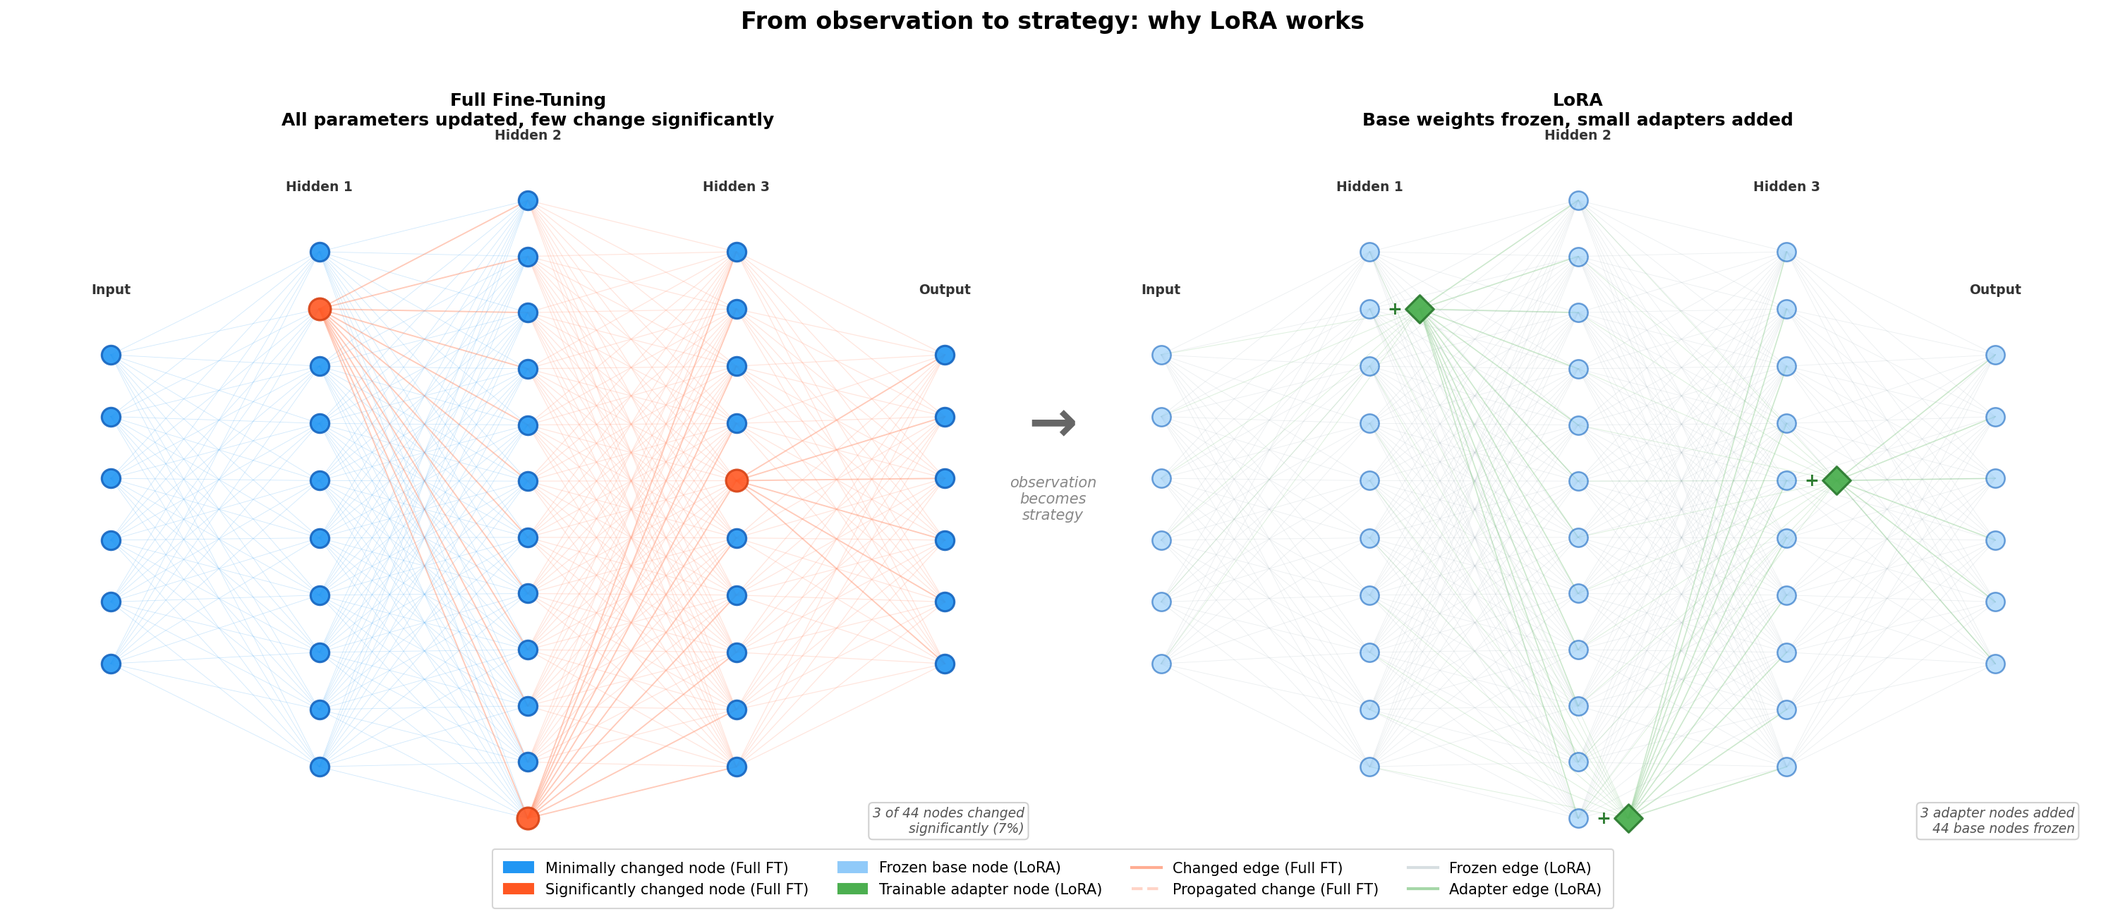
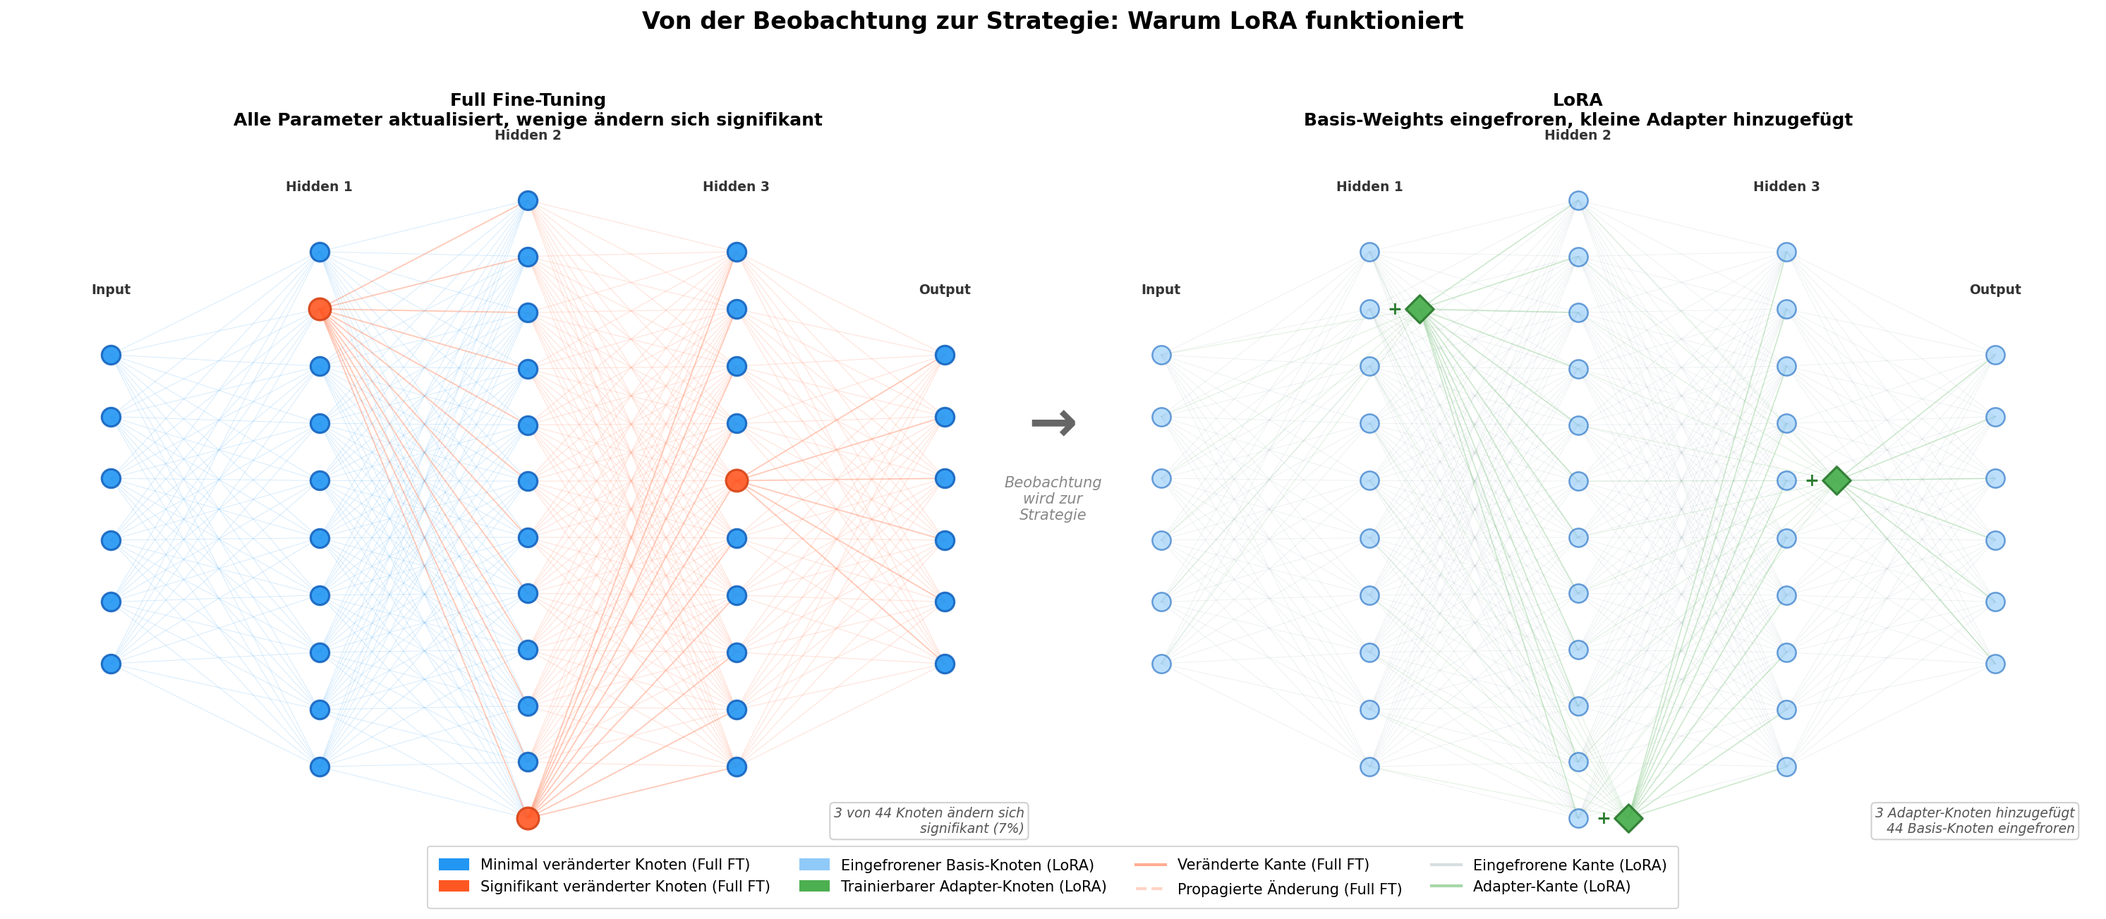
Translate and restructure LoRA documentation for improved organization and accessibility:
- Add "Hardware & Trainingsdauer" section to `LORA_EXPLAINED.md` with information on hardware setup and training metrics.
- Refactor sections for readability:
  - Rewrite and condense "Das Problem" and "Kernidee" for clarity.
  - Reorganize explanation of Full Fine-Tuning and LoRA advantages.
- Translate visualization script (`generate_finetuning_subspace.py`) into German.
  - Update text, titles, and legends for consistency in language.
- Update LoRA diagram references in `LORA_EXPLAINED.md` for better navigation.

diff --git a/machineLearning/languageModel/docs/generate_finetuning_subspace.py b/machineLearning/languageModel/docs/generate_finetuning_subspace.py
@@ -102,8 +102,8 @@ def draw_network_full_ft(ax):
     n = len(changed_nodes)
     pct = n / total * 100
     ax.text(0.98, 0.02,
-            f"{n} of {total} nodes changed\n"
-            f"significantly ({pct:.0f}%)",
+            f"{n} von {total} Knoten ändern sich\n"
+            f"signifikant ({pct:.0f}%)",
             transform=ax.transAxes, ha="right", va="bottom",
             fontsize=9, fontstyle="italic", color="#555555",
             bbox=dict(boxstyle="round,pad=0.3", facecolor="white",
@@ -111,7 +111,7 @@ def draw_network_full_ft(ax):
 
     ax.set_title(
         "Full Fine-Tuning\n"
-        "All parameters updated, few change significantly",
+        "Alle Parameter aktualisiert, wenige ändern sich signifikant",
         fontsize=12, fontweight="bold", pad=30,
     )
 
@@ -181,8 +181,8 @@ def draw_network_lora(ax):
     n_adapter = len(changed_nodes)
     total = sum(layer_sizes)
     ax.text(0.98, 0.02,
-            f"{n_adapter} adapter nodes added\n"
-            f"{total} base nodes frozen",
+            f"{n_adapter} Adapter-Knoten hinzugefügt\n"
+            f"{total} Basis-Knoten eingefroren",
             transform=ax.transAxes, ha="right", va="bottom",
             fontsize=9, fontstyle="italic", color="#555555",
             bbox=dict(boxstyle="round,pad=0.3", facecolor="white",
@@ -190,7 +190,7 @@ def draw_network_lora(ax):
 
     ax.set_title(
         "LoRA\n"
-        "Base weights frozen, small adapters added",
+        "Basis-Weights eingefroren, kleine Adapter hinzugefügt",
         fontsize=12, fontweight="bold", pad=30,
     )
 
@@ -209,34 +209,34 @@ for a in (ax1, ax2):
 fig.text(0.50, 0.52, "→", fontsize=40, ha="center", va="center",
          fontweight="bold", color="#666666",
          transform=fig.transFigure)
-fig.text(0.50, 0.46, "observation\nbecomes\nstrategy", fontsize=10,
+fig.text(0.50, 0.46, "Beobachtung\nwird zur\nStrategie", fontsize=10,
          ha="center", va="top", color="#888888", fontstyle="italic",
          transform=fig.transFigure)
 
 # Shared legend
 handles = [
     # Full FT nodes
-    mpatches.Patch(color=c_frozen, label="Minimally changed node (Full FT)"),
-    mpatches.Patch(color=c_changed, label="Significantly changed node (Full FT)"),
-    # LoRA nodes
-    mpatches.Patch(color=c_frozen_locked, label="Frozen base node (LoRA)"),
-    mpatches.Patch(color=c_lora_adapter, label="Trainable adapter node (LoRA)"),
-    # Edges
+    mpatches.Patch(color=c_frozen, label="Minimal veränderter Knoten (Full FT)"),
+    mpatches.Patch(color=c_changed, label="Signifikant veränderter Knoten (Full FT)"),
+    # LoRA-Knoten
+    mpatches.Patch(color=c_frozen_locked, label="Eingefrorener Basis-Knoten (LoRA)"),
+    mpatches.Patch(color=c_lora_adapter, label="Trainierbarer Adapter-Knoten (LoRA)"),
+    # Kanten
     Line2D([0], [0], color=c_edge_direct, linewidth=2, alpha=0.7,
-           label="Changed edge (Full FT)"),
+           label="Veränderte Kante (Full FT)"),
     Line2D([0], [0], color=c_edge_propagated, linewidth=2, alpha=0.5,
-           linestyle="--", label="Propagated change (Full FT)"),
+           linestyle="--", label="Propagierte Änderung (Full FT)"),
     Line2D([0], [0], color=c_edge_frozen, linewidth=2, alpha=0.5,
-           label="Frozen edge (LoRA)"),
+           label="Eingefrorene Kante (LoRA)"),
     Line2D([0], [0], color=c_edge_adapter, linewidth=2, alpha=0.7,
-           label="Adapter edge (LoRA)"),
+           label="Adapter-Kante (LoRA)"),
 ]
 fig.legend(handles=handles, loc="lower center", ncol=4, fontsize=10,
            frameon=True, fancybox=True, shadow=False, borderpad=0.8,
            bbox_to_anchor=(0.5, -0.06))
 
 fig.suptitle(
-    "From observation to strategy: why LoRA works",
+    "Von der Beobachtung zur Strategie: Warum LoRA funktioniert",
     fontsize=16, fontweight="bold", y=1.01,
 )
 

diff --git a/machineLearning/languageModel/docs/LORA_EXPLAINED.md b/machineLearning/languageModel/docs/LORA_EXPLAINED.md
@@ -15,8 +15,9 @@
 7. [LoRA im Vergleich zu anderen Methoden](#sec-comparison)
 8. [Praxis: LoRA Adapter speichern und laden](#sec-practice)
 9. [Unsere Implementierung: MiniGPT Fine-Tuning](#sec-implementation)
-10. [Weiterführende Konzepte](#sec-further)
-11. [References](#sec-references)
+10. [Hardware & Trainingsdauer](#sec-hardware)
+11. [Weiterführende Konzepte](#sec-further)
+12. [References](#sec-references)
 
 ---
 
@@ -24,79 +25,16 @@
 
 ## 1. Das Problem
 
-Dieses Dokument begleitet **MiniGPT**, ein kleines **autoregressive** Sprachmodell (das heißt,
-es erzeugt Text jeweils ein Token nach dem anderen, wobei jede Vorhersage von allen
-vorherigen Token abhängt), das im Rahmen dieses Projekts von Grund auf gebaut wurde
-(siehe [`training_transformer.py`](../src/training/training_transformer.py)).
-MiniGPT folgt der **Transformer**-Architektur, die von Vaswani et al. [8] eingeführt wurde —
-derselben Grundlage hinter Modellen wie ChatGPT, LLaMA und Qwen. Es besteht aus:
+Man möchte einem Sprachmodell neues Wissen beibringen — etwa Fakten aus einem bestimmten Fachgebiet oder einen bestimmten Schreibstil. Der naheliegendste Ansatz wäre ein Training von Grund auf und so lange auf den eigenen Daten trainieren, bis das Modell das Gewünschte gelernt hat. Doch das Modell muss zunächst Sprache, Grammatik und Weltwissen von Null auf lernen, was Datensätze im Bereich von Billionen Token und entsprechende Rechenressourcen voraussetzt. Vortrainierte Modelle (Pretrained Models) wie Qwen3-8B oder ChatGPT (Generative Pretrained Transformer) "kennen" bereits diese Dinge. 
 
-- Einem **Token Embedding** (einer Nachschlagetabelle, die jedes Wort oder Teilwort in einen Zahlenvektor umwandelt, den das Modell verarbeiten kann) + einer Positionscodierung (damit das Modell die *Reihenfolge* der Token in der Sequenz kennt)
-- $N$ gestapelten Transformer-Blöcken, die jeweils Multi-Head Self-Attention und ein Feed-Forward-Netzwerk enthalten
-- Einem linearen Output-Kopf, der **Logits** für das nächste Token erzeugt (Rohwerte, einer pro Vokabelwort, die in Wahrscheinlichkeiten umgerechnet werden, um das nächste Token vorherzusagen)
-
-Die Transformer-Architektur wurde gewählt, weil sie dem aktuellen Standard für Sprachmodelle entspricht und MiniGPT dadurch strukturell direkt mit Produktionsmodellen wie Qwen3-8B vergleichbar ist — Qwen3 verwendet ebenfalls eine Decoder-only Transformer-Architektur [8] (mit Grouped Query Attention, RMSNorm, SwiGLU und RoPE).
-
-MiniGPT ist bewusst klein gehalten ($d_{\text{model}} = 64$, 2 Layer, 4 Attention Heads), um
-Training und Experimente schnell auf einer einzelnen CPU zu ermöglichen. Die Architektur ist jedoch
-strukturell identisch mit produktionstauglichen Modellen — jedes in diesem Dokument besprochene
-Konzept (LoRA, Weight Freezing, Adapter Merging) ist 1:1 auf Milliarden-Parameter-Modelle wie
-Qwen3-8B übertragbar.
-
-Man möchte einem Sprachmodell neues Wissen beibringen — etwa Fakten aus einem bestimmten
-Fachgebiet oder einen bestimmten Schreibstil. Der naheliegendste Ansatz wäre ein Training von Grund auf:
-zufällige Gewichte initialisieren und so lange auf den eigenen Daten trainieren, bis das Modell das
-Gewünschte gelernt hat. Doch das ist die Holzhammer-Methode — das Modell muss zunächst Sprache,
-Grammatik und Weltwissen von Null auf lernen, wofür enorme Datensätze (Billionen von Token) und
-massive Rechenleistung erforderlich sind. Für ein Modell wie Qwen3-8B (8 Milliarden Parameter) ist
-das völlig unpraktikabel.
-
-Die Erkenntnis, die moderne Anpassung überhaupt erst möglich macht, ist, dass jemand diese
-aufwändige Arbeit *bereits erledigt hat*. Vortrainierte Modelle (Pretrained Models) wie Qwen3-8B wurden auf riesigen
-Datensätzen trainiert und "kennen" bereits die Sprache. Anstatt bei Null anzufangen, lässt sich
-von diesen vortrainierten Gewichten ausgehen und auf einem kleineren, aufgabenspezifischen Datensatz
-weitertrainieren — das nennt man **Full Fine-Tuning**. Es ist um Größenordnungen günstiger als
-Training from Scratch, aber in absoluten Zahlen immer noch teuer, wie die folgende Analyse zeigt.
-
-Unser MiniGPT (~109K Parameter) lässt sich bequem auf einer CPU trainieren. Modelle wie Qwen3-8B
-sind dafür jedoch viel zu groß — die Matrixoperationen über Milliarden von Parametern erfordern
-die massive Parallelität einer **GPU**. Um zu verstehen, warum selbst Full Fine-Tuning kostspielig
-ist, muss betrachtet werden, was die GPU im VRAM (Video-RAM, der Arbeitsspeicher der Grafikkarte) halten muss.
-
-Zunächst die **Modellgewichte** (Weights) selbst. Die meisten LLMs werden in halber Genauigkeit (FP16 oder
-BF16) gespeichert und ausgeführt — dies ist das Standardformat für die Verteilung und Inferenz
-moderner Modelle, da es den Speicherbedarf im Vergleich zu voller Genauigkeit (FP32, 4 Byte pro Parameter) halbiert, bei vernachlässigbarem
-Qualitätsverlust. Doppelte Genauigkeit (FP64, 8 Byte) wird im Deep Learning nicht eingesetzt — die Gradienten sind ohnehin verrauscht, sodass die zusätzliche Präzision keinen messbaren Vorteil bringt, den Speicherbedarf aber nochmals verdoppeln würde. In halber Genauigkeit belegt jeder Parameter 2 Byte, sodass allein das Laden von
-Qwen3-8B bereits 16 GB benötigt.
+Anstatt bei Null anzufangen, lässt sich von diesen vortrainierten Werten ausgehen und auf einem kleineren, aufgabenspezifischen Datensatz weitertrainieren — das nennt man **Full Fine-Tuning**. Es ist um Größenordnungen günstiger als Training von Grund auf, aber in absoluten Zahlen immer noch teuer. Denn doch selbst Full Fine-Tuning stößt schnell an Consumer-Hardware-Grenzen. Allein um Qwen3-8B in halber Genauigkeit (FP16, 2 Byte pro Parameter) zu *laden*, werden über 16 GB GPU-Speicher (VRAM) benötigt:
 
 $$8 \times 10^9 \;\text{Parameter} \times 2 \;\text{Byte} = 16 \;\text{GB}$$
 
-
-
-In der Praxis treiben zusätzliche Mehraufwände (GPU-Verwaltungsdaten, Zwischenergebnisse der Berechnungen, Datenpuffer) den
-tatsächlichen Verbrauch über dieses theoretische Minimum hinaus — daher **>16 GB GPU RAM** allein
-für das Modell.
-
-Das Trainieren eines Modells benötigt jedoch deutlich mehr. Während der **Backpropagation** (dem Prozess, bei dem das
-Netzwerk rückwärts vom Ausgabefehler arbeitet, um herauszufinden, wie jeder Parameter zu diesem
-Fehler beigetragen hat) berechnet das Netzwerk einen **Gradient** für jeden Parameter — eine Zahl, die angibt, *in welche Richtung* und *um wie viel* dieser Parameter angepasst werden muss, um den Fehler zu verringern.
-
-Ein Beispiel: Das Modell soll nach *"die katze sitzt auf dem"* das Wort *"tisch"* vorhersagen, gibt aber *"hund"* aus. Der Gradient für einen bestimmten Parameter könnte dann $-0{,}03$ betragen — das bedeutet: "Verringere diesen Parameter um einen kleinen Betrag, dann wird die Vorhersage etwas näher an *tisch* rücken." Ein anderer Parameter erhält vielleicht $+0{,}01$: "Erhöhe diesen leicht." So bekommt jeder der 8 Milliarden Parameter seine individuelle Korrekturanweisung.
-
-Formal ist der Gradient die partielle Ableitung $g_i = \partial \mathcal{L} / \partial \theta_i$, wobei $\mathcal{L}$ der **Loss** (Verlust) ist — eine einzelne Zahl, die misst, wie falsch die Vorhersagen des Modells sind. Der **Optimizer** (der Algorithmus, der die Parameter tatsächlich aktualisiert) nutzt diese Gradienten, um jeden Parameter Schritt für Schritt in Richtung besserer Vorhersagen zu verschieben. Da zu jedem der 8 Milliarden Parameter ein zugehöriger Gradient $g_i$ gespeichert werden muss (ebenfalls in FP16, also 2 Byte), verdoppelt sich der Speicherbedarf effektiv auf ~32 GB.
-
-Moderne Optimizer verursachen weiteren Mehraufwand. **Adam** [7], der De-facto-Standard-Optimizer für
-das Training großer Sprachmodelle, hält zwei zusätzliche laufende Mittelwerte pro Parameter vor (einen Impuls-Term,
-der verrauschte Gradienten glättet, und einen Varianz-Term, der die Schrittweite für jeden Parameter
-anpasst). Zusammen mit den Gewichten und Gradienten ergibt dies ungefähr das $3\times$-Fache der
-Modellgröße [11]:
-
-$$3 \times 16 \;\text{GB} \approx 48 \;\text{GB}.$$
-
-Zum Vergleich: Laut dem Steam Hardware Survey (Januar 2026) [12] haben 33,46% aller Nutzer eine GPU mit 8 GB VRAM — die beliebteste Grafikkarte ist die NVIDIA RTX 4060 (8 GB, 8,57% Marktanteil). Selbst 16 GB VRAM besitzen nur 14,55% der Nutzer. Die für Full Fine-Tuning von Qwen3-8B benötigten ~48 GB übersteigen also die Hardware der allermeisten Consumer-Systeme bei Weitem.
-
-LoRA löst dieses Problem [1] — nicht, indem es Full Fine-Tuning billiger macht, sondern indem es
-dieses gänzlich vermeidet.
+Laut dem Steam Hardware Survey (Januar 2026) [[12]](https://store.steampowered.com/hwsurvey/) haben nur 29,57% aller Nutzer überhaupt
+8 GB VRAM — und selbst 16 GB besitzen nur 14,55%. Das ist nur das *Betreiben* des Modells.
+Beim *Trainieren* kommen Gradienten und Optimizer-Zustände hinzu, die den Speicherbedarf
+auf rund das Vierfache der Modellgröße treiben — bei Qwen3-8B also ~64 GB.
 
 ---
 
@@ -105,23 +43,12 @@ dieses gänzlich vermeidet.
 ## 2. Die Kernidee
 
 Wenn Full Fine-Tuning so teuer ist, müssen dann wirklich *alle* Parameter aktualisiert werden? Die
-zentrale Beobachtung hinter LoRA lautet: nein — die Weight-Änderungen, die beim Fine-Tuning
+zentrale Beobachtung hinter LoRA [1] lautet: nein — die Weight-Änderungen, die beim Fine-Tuning
 auftreten, belegen nur einen kleinen Unterraum des gesamten Parameterraums (das heißt, von allen
 möglichen Arten, wie sich die Weights *ändern könnten*, konzentrieren sich die tatsächlichen
 Änderungen in einem winzigen Bereich).
 
-[Abbildung 1](#fig:subspace) veranschaulicht dies anhand eines vereinfachten Schemas
-eines neuronalen Netzes. Jeder Knoten stellt ein **Neuron** dar — eine Recheneinheit, die über
-viele einzelne Weight-Parameter (die Kanten) mit Neuronen in benachbarten Layern verbunden ist. Die
-Abbildung ist nicht maßstabsgetreu zu einem bestimmten Modell; es handelt sich um ein
-Konzeptdiagramm, das das allgemeine Prinzip zeigt. Beim Full Fine-Tuning erhalten technisch alle
-Parameter Gradient-Updates — doch das Ausmaß der Änderung ist höchst ungleichmäßig. Blaue
-Neuronen ändern sich nur minimal (nahezu null $\Delta W$), während rote Neuronen sich deutlich
-verändern. Die bedeutsame Anpassung konzentriert sich auf einen kleinen Bruchteil des Netzwerks.
-Diese Beobachtung motiviert LoRA direkt: Wenn sich die meisten Parameter ohnehin kaum ändern,
-lassen sie sich vollständig **einfrieren** (sperren, sodass sie während des Trainings nicht verändert
-werden können) und nur eine kleine Low-Rank-Korrektur für die Parameter trainieren, die tatsächlich
-relevant sind:
+[Abbildung 1](#fig:subspace) veranschaulicht dies anhand eines Konzeptdiagramms eines neuronalen Netzes. Jeder Knoten stellt ein **Neuron** dar — eine Recheneinheit, die über viele einzelne Weight-Parameter (die Kanten) mit Neuronen in benachbarten Ebenen (**Layer**) verbunden ist. Beim Full Fine-Tuning erhalten technisch alle Parameter Gradient-Updates — doch das Ausmaß der Änderung ist höchst ungleichmäßig. Blaue Neuronen ändern sich nur minimal (nahezu null $\Delta W$), während rote Neuronen sich deutlich verändern. Die bedeutsame Anpassung konzentriert sich auf einen kleinen Bruchteil des Netzwerks. Diese Beobachtung motiviert LoRA direkt: Wenn sich die meisten Parameter ohnehin kaum ändern, lassen sie sich vollständig **einfrieren** (sperren, sodass sie während des Trainings nicht verändert werden können) und nur eine kleine Low-Rank-Korrektur für die Parameter trainieren, die tatsächlich relevant sind:
 
 <a id="fig:subspace"></a>
 
@@ -139,6 +66,12 @@ relevant sind:
 > *Erzeugt von [`generate_finetuning_subspace.py`](generate_finetuning_subspace.py).*
 
 ### 2.1 Von Netzwerkknoten zu Attention-Projektionen
+
+Zur Erinnerung: MiniGPT (und Transformer allgemein) bestehen aus drei Bausteinen:
+
+- Einem **Token Embedding** (einer Nachschlagetabelle, die jedes Wort oder Teilwort in einen Zahlenvektor umwandelt, den das Modell verarbeiten kann) + einer Positionscodierung (damit das Modell die *Reihenfolge* der Token in der Sequenz kennt)
+- $N$ gestapelten **Transformer-Blöcken** — jeder Block lässt das Modell zuerst den Kontext betrachten (welche Wörter hängen zusammen? — das ist die *Self-Attention*) und dann das Verstandene weiterverarbeiten (über ein kleines vorgeschaltetes Netzwerk, das *Feed-Forward-Netzwerk*)
+- Einem **Output-Kopf**, der nach dem letzten Transformer-Block einen Wert pro Wort im Vokabular ausgibt — ein sogenanntes **Logit**. Je höher das Logit, desto wahrscheinlicher ist dieses Wort als nächstes Token
 
 [Abbildung 1](#fig:subspace) zeigt ein vereinfachtes Feed-Forward-Netzwerk, in dem jeder Knoten eine
 Gruppe von Parametern repräsentiert. LoRA wird jedoch nicht auf beliebige Knoten angewendet —
@@ -392,6 +325,17 @@ Einheitskreis von Input-Vektoren $x$ wird durch drei verschiedene lineare Abbild
 zu zeigen, wie jede den Raum transformiert:
 
 ![LoRA intuition](lora_intuition.png)
+
+<a id="fig:lora-2d"></a>
+
+> **Abbildung 4 — LoRA als geometrische Korrektur in 2D.** Ein Einheitskreis von Input-Vektoren
+> wird durch drei verschiedene lineare Abbildungen transformiert. Links: die Pretrained Weights $W$
+> (blaue Ellipse). Mitte: das Full Fine-Tuning-Ziel $W + \Delta W$ (rote Ellipse). Rechts: LoRA
+> approximiert das Ziel, indem eine Rank-1-Korrektur $BA$ (grüne Ellipse) zu den eingefrorenen
+> Pretrained Weights addiert wird — die grünen Pfeile zeigen die additive Korrektur, die jeden
+> Punkt von der blauen zur grünen Ellipse verschiebt. Selbst mit dem minimal möglichen Rank
+> ($r = 1$) stimmt die Approximation eng mit dem Full Fine-Tuning-Ergebnis überein.
+> *Erzeugt von [`generate_lora_visualization.py`](generate_lora_visualization.py).*
 
 - **Links — Pretrained Weights $W$ (eingefroren).** Der gestrichelte graue Kreis stellt die
   rohen Input-Daten $x$ dar. Die blaue Ellipse ist der Output $y = Wx$ — das Ergebnis der
@@ -692,6 +636,8 @@ Modell als Ganzes nicht destabilisieren kann.
 <a id="sec-where"></a>
 
 ## 6. Wo wird LoRA angewendet?
+
+Um die bisherigen Konzepte praktisch nachzuvollziehen, verwenden wir **MiniGPT** — ein kleines **autoregressives** Sprachmodell (es erzeugt Text, wobei jede Vorhersage vom vorherigen Text abhängt), das im Rahmen dieses Projekts von Grund auf gebaut wurde (siehe [`training_transformer.py`](../src/training/training_transformer.py)). Die dabei verwendete **Transformer**-Architektur [8] ist strukturell identisch mit produktionstauglichen Modellen wie Qwen3-8B.
 
 Typischerweise auf die **Attention Projections** innerhalb jedes Transformer Blocks — die vier Weight Matrices $W_Q$, $W_K$, $W_V$ und $W_O$, die in [Abschnitt 2.1](#sec-core-idea) eingeführt wurden. Zur kurzen Erinnerung: Query und Key bestimmen, *welche* Tokens einander beachten, Value enthält den *Inhalt*, der weitergegeben wird, und Output bildet das kombinierte Ergebnis zurück auf die Model-Dimension ab.
 
@@ -1044,11 +990,45 @@ Die `lora_adapter/`-Variante ist um Größenordnungen kleiner als das vollständ
 
 ---
 
+<a id="sec-hardware"></a>
+
+## 10. Hardware & Trainingsdauer
+
+Alle Trainingsläufe in diesem Dokument wurden auf folgender Consumer-Hardware durchgeführt:
+
+| Komponente | Spezifikation |
+|------------|---------------|
+| CPU | AMD Ryzen 7 7800X3D |
+| RAM | 64 GB |
+| GPU | — (reines CPU-Training) |
+
+### 10.1 MiniGPT Pre-Training
+
+| Metrik | Wert |
+|--------|------|
+| Parameter | ~109K |
+| Epochs | *TODO* |
+| Trainingsdauer | *TODO* |
+| Final Loss | *TODO* |
+
+### 10.2 MiniGPT LoRA Fine-Tuning
+
+| Metrik | Wert |
+|--------|------|
+| Trainierbare Parameter (LoRA) | *TODO* |
+| Epochs | *TODO* |
+| Trainingsdauer | *TODO* |
+| Final Loss | *TODO* |
+
+> **Hinweis:** Da MiniGPT bewusst klein gehalten ist, liegen die Trainingszeiten im Sekunden- bis Minutenbereich. Dies unterstreicht den Punkt aus [Abschnitt 1](#sec-problem): Für Modelle dieser Größe ist kein spezialisiertes Setup nötig — die Experimente lassen sich auf jedem modernen Desktop reproduzieren.
+
+---
+
 <a id="sec-further"></a>
 
-## 10. Weiterführende Konzepte
+## 11. Weiterführende Konzepte
 
-### 10.1 QLoRA (Quantized LoRA)
+### 11.1 QLoRA (Quantized LoRA)
 
 Dettmers et al. [2] kombinieren LoRA mit **4-bit Quantization** des Base Models.
 
@@ -1082,7 +1062,7 @@ Wichtige Eigenschaften:
 - Dequantization auf BF16 erfolgt on-the-fly während des Forward Pass
 - Ermöglicht Fine-Tuning großer Modelle (z.B. 70B) auf einer einzelnen Consumer-GPU (24 GB)
 
-### 10.2 DoRA (Weight-Decomposed Low-Rank Adaptation)
+### 11.2 DoRA (Weight-Decomposed Low-Rank Adaptation)
 
 Liu et al. [3] zerlegen die Weight Matrix in **Richtung** und **Magnitude**:
 
@@ -1092,7 +1072,7 @@ $$
 
 wobei $m$ ein trainierbarer Magnitude-Vektor ist und $\|\cdot\|_c$ die spaltenweise Norm bezeichnet. Beide Komponenten werden separat trainiert. Liefert oft bessere Ergebnisse als Standard-LoRA.
 
-### 10.3 LoRA+
+### 11.3 LoRA+
 
 Hayou et al. [6] schlagen vor, **unterschiedliche Learning Rates** für $A$ und $B$ zu verwenden:
 - Matrix $A$: Höhere Learning Rate
@@ -1104,7 +1084,7 @@ Eine einfache Modifikation, die oft zu besserer Konvergenz führt.
 
 <a id="sec-references"></a>
 
-## References
+## 12. References
 
 [1] E. J. Hu, Y. Shen, P. Wallis, Z. Allen-Zhu, Y. Li, S. Wang, L. Wang, and W. Chen, "LoRA: Low-Rank Adaptation of Large Language Models," in *Proc. ICLR*, 2022. [arXiv:2106.09685](https://arxiv.org/abs/2106.09685)
 
